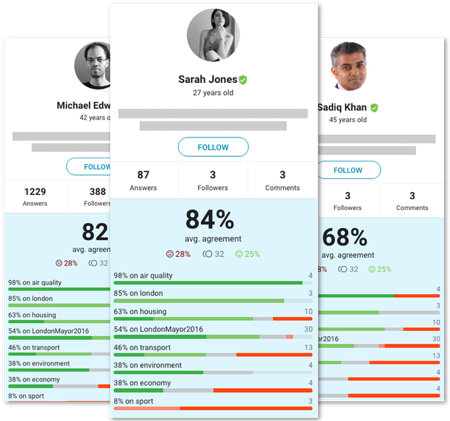
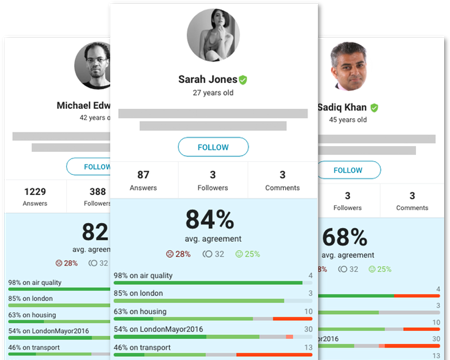
compare style, end screen

diff --git a/src/components/EndScreen/partials/CompareUsersDetailsComponent/CompareUsersDetailsComponent.js b/src/components/EndScreen/partials/CompareUsersDetailsComponent/CompareUsersDetailsComponent.js
@@ -146,6 +146,10 @@ const CompareCollectionUsersView = observer(({data})=> {
         {!this.props.compareData || !this.props.compareData.topic_diffs ? <p>loading...</p> :
           <div style={{backgroundColor: '#e6f7ff', padding: 10, maxWidth: 250, margin: '0 auto'}}>
 
+          <div style={{fontSize:12, margin: '0 0 10px 0', color: '#0d6a88', paddingTop: 0}}>
+          {bio}
+          </div>
+
             <div className='container'>
               <div className='inner'>
                 <p>{count_question_votes}<br/>
@@ -164,12 +168,10 @@ const CompareCollectionUsersView = observer(({data})=> {
               </div>
             </div>
 
-          <div className='containerSmall' style={{justifyContent: 'center', paddingTop: 0}}>
-            <div className='innerSmall'>
-              <p><img src='/icons/happy_face1.png'/>{` ${values.agree}%`}</p>
-            </div> 
-            <div className='innerSmall'>
-              <p><img src='/icons/sad_face1.png'/>{` ${values.disagree}%`}</p>
+          <div className=' ' style={{justifyContent: 'center', paddingTop: 0}}>
+            <div className=' '>
+              <p>You strongly agree on: {` ${values.agree}%`}</p>
+              <p>You strongly disagree on: {` ${values.disagree}%`}</p>
             </div>
           </div>
 

diff --git a/src/components/Components/modals/MoreUserInfo/MoreUserInfo.jsx b/src/components/Components/modals/MoreUserInfo/MoreUserInfo.jsx
@@ -36,22 +36,17 @@ const autocompleteStyle = {
 
 
 const styles = {
-  dialogRoot: {
-    paddingTop: 0
+  dialogRoot: { 
   },
-  dialogContent: {
-    width: '90%',
-    padding: 2,
-    minWidth: 280,
-    maxWidth: 680
+  dialogContent: { 
+    padding: 0, 
   },
 
   dialogBody: {
-    padding: 10,
+    padding: 0,
   },
   radioButton: {
-    fontSize: 13,
-    cssFloat: 'left',
+    fontSize: 13, 
   },
   floatingLabelText: {
     color: '#444'
@@ -216,8 +211,8 @@ export default @observer @inject("UserStore") class MoreUserInfo extends Compone
         autoScrollBodyContent={false}>
 
         <div style={{width: '90%', display: 'block', margin: '20px auto'}}>
-          <p style={{ margin: 0, fontSize: 14, color: '#999'}}>How do you compare?</p>
-          <p style={{ margin: 0, fontSize: 12, color: '#999'}}>Enter a few details to match to local candidates and see how others have answered.</p>
+          <p style={{ margin: 0, fontSize: 16, color: '#333'}}>How do you compare?</p>
+          <p style={{ margin: 0, fontSize: 14, color: '#999', marginBottom: 8}}>Enter a few details to match to local candidates and see how others have answered.</p>
 
           <Autocomplete
               style={autocompleteStyle}

diff --git a/src/components/EndScreen/partials/CompareUsersComponent/CompareUsersComponent.js b/src/components/EndScreen/partials/CompareUsersComponent/CompareUsersComponent.js
@@ -375,10 +375,9 @@ class UserCardSmall extends Component {
 
         <Avatar src={photo} size={50} style={{alignSelf: 'center', display: 'block', margin: '0 auto', marginTop: '10px'}}/>
 
-        <CardTitle title={name} subtitle={location} style={{textAlign: 'center', padding: '4px 16px', }} />
+        <CardTitle title={name} subtitle={location} style={{textAlign: 'center', padding: '4px 16px', }} titleStyle={{lineHeight: 1, fontSize: 18, fontWeight: 600 }} />
 
-        <CardText style={{textAlign: 'center', padding: '8px 16px 0 16px', color: '#444'}}>
-          {bio}
+        <CardText style={{textAlign: 'center', padding: '8px 16px 0 16px', color: '#444'}} className='cardText'>
           <div style={{ margin: '10px 0 0 0'}}>
             { this.props.following.get() > 0 ?
               <RaisedButton

diff --git a/src/components/QuestionFlow/QuestionFlow.css b/src/components/QuestionFlow/QuestionFlow.css
@@ -166,6 +166,21 @@
     fill: #1B8AAE !important
 }
 
+.menu-tab-active button, .menu-tab button{
+  padding: 5px 0px 0px 0px !important;
+}
+.menu-tab-active div, .menu-tab div{
+  background-color: white !important;
+}
+
+.menu-tab div button div div span {
+    background: rgba(0,0,0,0.8) !important;
+    color: #fff;
+    padding: 2px;
+    text-shadow: none !important;
+    border-radius: 3px;
+}
+
 .nav-buttons {
     display: flex;
     position: fixed;
@@ -271,10 +286,4 @@ a {
 .img-share {
     border: 1px solid #ccc;
     box-shadow: rgba(0, 0, 0, 0.2) 1px 2px 3px;
-}
-.menu-tab-active button, .menu-tab button{
-  padding: 5px 0px 0px 0px !important;
-}
-.menu-tab-active div, .menu-tab div{
-  background-color: white !important;
 }

diff --git a/src/components/EndScreen/partials/CompareUsersComponent/CompareUsers.css b/src/components/EndScreen/partials/CompareUsersComponent/CompareUsers.css
@@ -53,22 +53,10 @@
   margin: 7px auto;
   display: block;
 }
-/*.slider-frame{
-  overflow: visible !important;
-}
-.slider-decorator-2{
-  height: 30px;
-  overflow: hidden;
-} 
 
-.scrollbar::-webkit-scrollbar-thumb {
-    border-radius: 10px; 
+
+.scrollbar .cardTitle,
+.scrollbar .cardText {
+    padding: 4px 16px !important;
 }
-.scrollbar::-webkit-scrollbar-track {
-  background-color:lightgrey;
-}
-.scrollbar::-webkit-scrollbar {
-    height: 7px;
-    width:10px;
-}
-*/
+   
